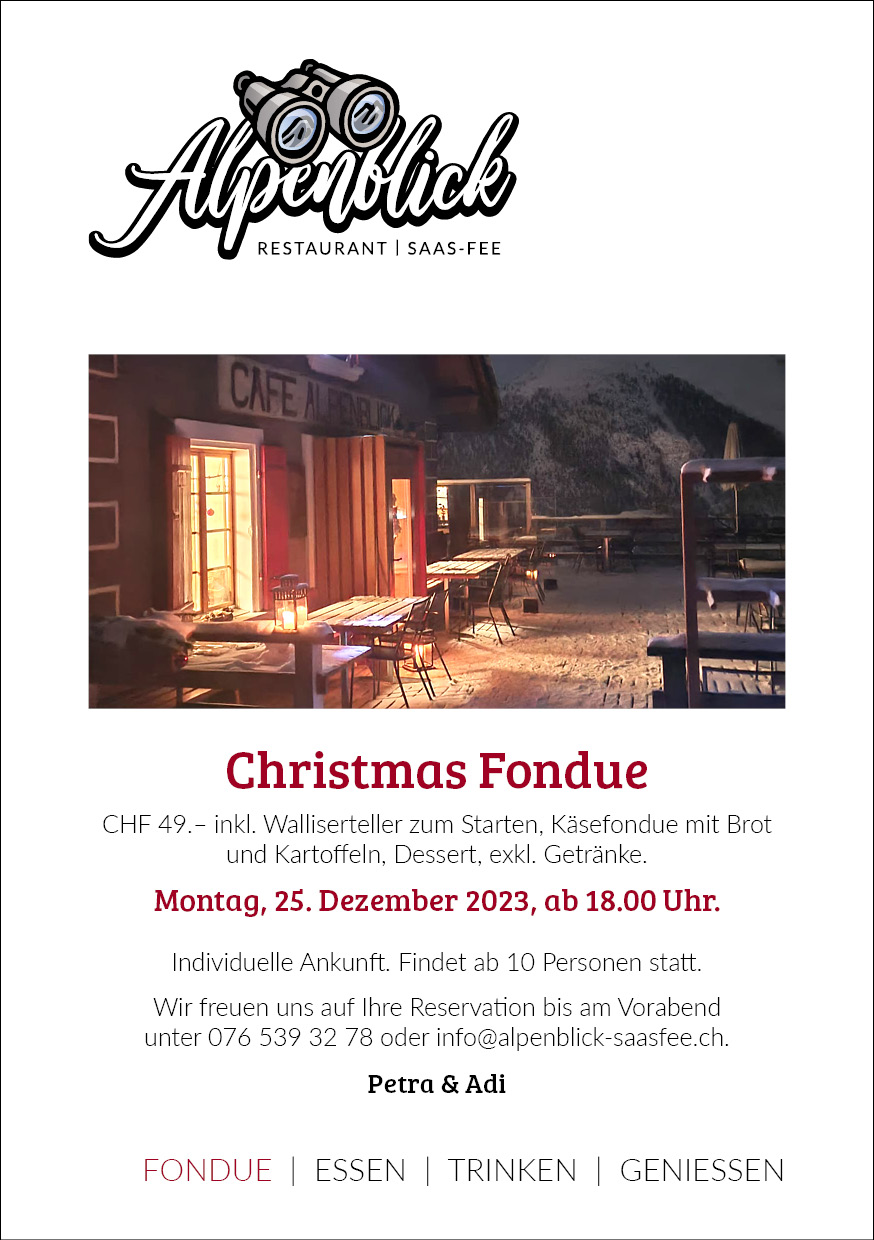
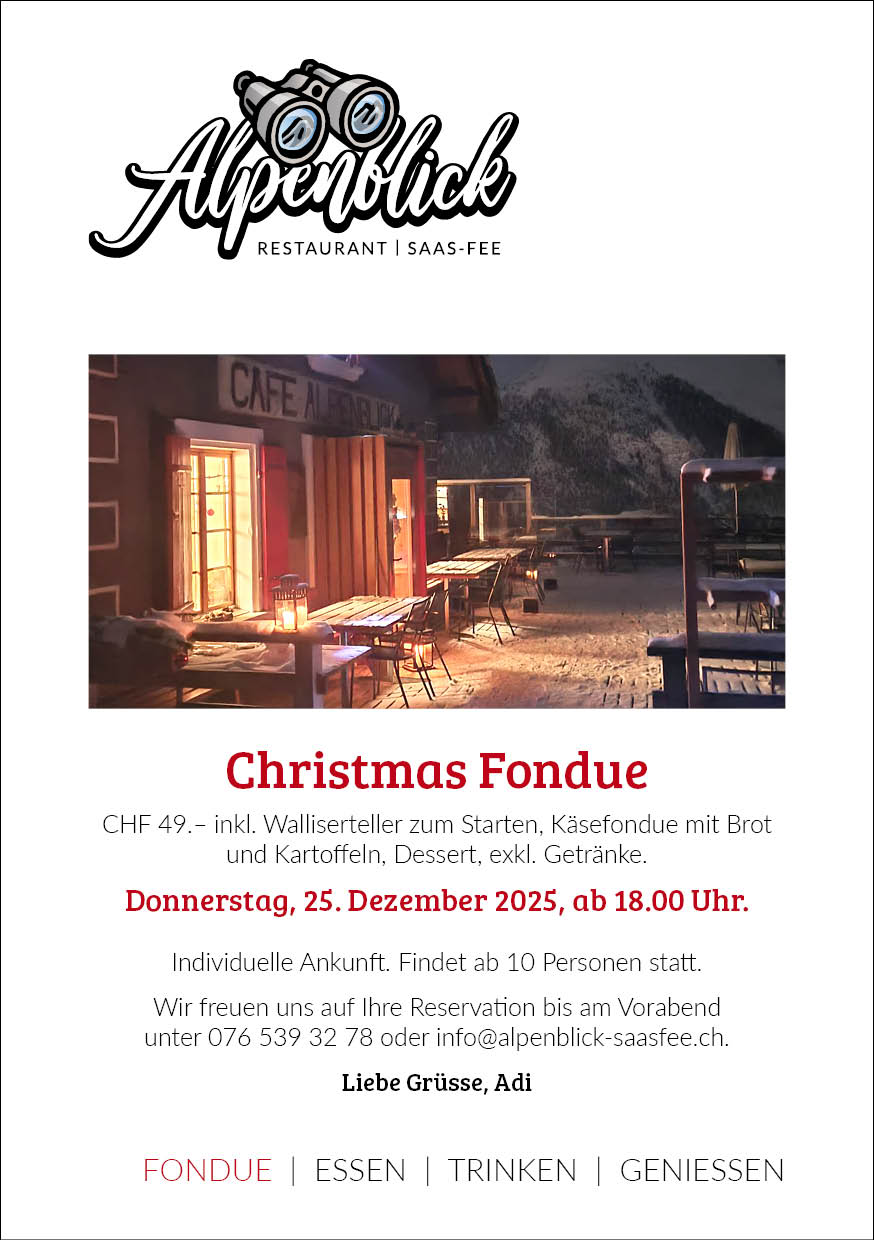
deploy: RetoZ/alpenblick-hugo@d6c4af39b10ca9b0b5985e0b27faafa3f96085b6

diff --git a/index.html b/index.html
@@ -1,4 +1,4 @@
 <!doctype html><html><head><meta name=generator content="Hugo 0.152.2"><meta charset=utf-8><meta http-equiv=X-UA-Compatible content="IE=edge"><title>Restaurant Alpenblick</title><meta name=HandheldFriendly content="True"><meta name=viewport content="width=device-width,initial-scale=1"><link rel=stylesheet type=text/css href=/assets/css/normalize.css><link rel=stylesheet type=text/css href=/assets/css/icons.css><link rel=stylesheet type=text/css href=/assets/css/screen.css><link href="https://fonts.loli.net/css?family=Bree+Serif|Lato:100,100i,300,300i,400,400i,700,700i|Source+Code+Pro:300,400,500,700" rel=stylesheet><link rel=stylesheet href=/css/style.3af1e36d49b4e7aa6063a6a0d5d98c82af2ff0091cfccd1c402d019e5bbdfb0a.css integrity="sha256-OvHjbUm056pgY6ag1dmMgq8v8Akc/M0cQC0Bnlu9+wo=" media=screen><script src=https://cdn.jsdelivr.net/npm/jquery@1.12.4/dist/jquery.min.js></script><script type=text/javascript src=/assets/bigfoot/dist/bigfoot.js></script><link rel=stylesheet type=text/css href=/assets/bigfoot/dist/bigfoot-number.css><script type=text/javascript>$.bigfoot()</script></head><body class=homepage><header class=main-header><div class=main-header-content><h1 class=blog-title><a href=/>Restaurant Alpenblick<br>Saas-Fee</a></h1><h2 class=blog-description>Essen   |   Trinken   |   Geniessen</h2></div><div class=nav><a class="nav- nav-current" role=presentation href=/>Willkommen</a>
 <a class=nav- role=presentation href=/about/>Gastgeber</a>
 <a class=nav- role=presentation href=/gallery/>Gallerie</a>
-<a class=nav- role=presentation href=/contact/>Kontakt</a></div></header><main class=content role=main><img src=images/Restaurant_Alpenblick_Saas_Fee_BLAU.png alt="Restaurant Alpenblick Saas-Fee Logo" class=logo><br><hr><p><strong>Start Wintersaison</strong><br>Am <strong>Freitag, 12. Dezember 2025</strong>, freuen wir uns, mit euch in die Wintersaison starten zu dürfen!</p><hr><br><h1 id=herzlich-willkommen->Herzlich Willkommen &mldr;</h1><p><img src=images/Alpenblick_Ansicht_13.jpg alt=Alpenblick title=Alpenblick></p><p>Geniessen Sie unser renoviertes Bergrestaurant im Sommer- und Winterwandergebiet Hannig auf 2030 Meter Höhe am Rand eines knorrigen Lärchen-Arven-Waldes und auf halbem Weg zwischen Hannig und Saas-Fee.</p><p>Die wunderschöne Sonnenterrasse mit herrlicher Aussicht auf die Berglandschaft und das rustikale Interieur unserer Zuckmayer Stube wird Ihnen gefallen. Sie werden von uns mit Schweizer Küche und feinen hausgemachten Kuchen verwöhnt.</p><p><em>Liebe Grüsse, Adi</em></p><h2 id=essen--trinken>Essen & Trinken</h2><ul><li>Unsere Menükarte in <a href=images/Alpenblick_Menukarte_QR_Code_DE.pdf target=_blank>Deutsch</a></li><li>Notre menu en <a href=images/Alpenblick_Menukarte_QR_Code_FR.pdf target=_blank>français</a></li><li>Our menu in <a href=images/Alpenblick_Menukarte_QR_Code_EN.pdf target=_blank>english</a></li></ul><h2 id=einen-tisch-reservieren>Einen Tisch reservieren</h2><ul><li>Statt telefonisch oder via E-Mail können Sie <a href="https://reserve.foratable.com?restaurantHash=3be5e5e9c7df6d02cb707c204c71a1ba" target=_blank>hier direkt einen Tisch reservieren</a>.</li><li>Au lieu de téléphoner ou d&rsquo;envoyer un e-mail, vous pouvez <a href="https://reserve.foratable.com?restaurantHash=3be5e5e9c7df6d02cb707c204c71a1ba" target=_blank>réserver directement une table ici</a>.</li><li>Instead of calling or emailing, you can <a href="https://reserve.foratable.com?restaurantHash=3be5e5e9c7df6d02cb707c204c71a1ba" target=_blank>book a table directly here</a>.</li></ul><h2 id=übernachten-unter-sternen>Übernachten unter Sternen</h2><p>Wir freuen uns sehr, euch über unsere Zusammenarbeit mit <strong><a href=https://www.adventurly.ch target=_blank>adventurly.ch</a></strong> informieren zu können! Seit <strong>Sommer 2023</strong> könnt ihr unsere romantische <a href=images/Alpenblick_Bubble-Suite_Tag.jpg target=_blank>Alpenblick Bubble-Suite</a> buchen und eine unvergessliche Nacht unter dem <a href=images/Alpenblick_Bubble-Suite_Nacht.jpg target=_blank>Sternenhimmel</a> geniessen. Kombiniert mit den Alpenblick Gaumenfreuden ein garantiert unvergessliches Erlebnis! <a href=https://www.alpenblick-saasfee.ch/gallery/ target=_blank>Hier ein paar Impressionen</a> und <a href=https://adventurly.ch/unterkuenfte/bubble-suite-saas-fee/ target=_blank>hier direkt buchbar!</a></p><h2 id=übernachten-im-massenlager>Übernachten im Massenlager</h2><p>Unser kleines, aber feines <a href=images/Alpenblick_Flyer_Uebernachten_2022.jpg target=_blank>Massenlager</a> für Gruppen (von mind. 6 und max. 10 Personen) ist schlafbereit!</p><h2 id=aktuelle-anlässe>Aktuelle Anlässe</h2><ul><li>Jeden Freitag: <a href=images/Alpenblick_Flyer_Freitag_Abend_Menu_2020.jpg target=_blank>Freitag Abend Überraschungsmenu</a></li><li>AUSGEBUCHT – Samstag, 3. Januar 2026: <a href=images/Alpenblick_Flyer_Vollmond_Raclette_Plausch.jpg target=_blank>Vollmond Raclette</a></li><li>Sonntag, 1. Februar 2026: <a href=images/Alpenblick_Flyer_Vollmond_Raclette_Plausch.jpg target=_blank>Vollmond Raclette</a></li><li>Montag, 2. März 2026: <a href=images/Alpenblick_Flyer_Vollmond_Raclette_Plausch.jpg target=_blank>Vollmond Raclette</a></li><li>Donnerstag, 2. April 2026: <a href=images/Alpenblick_Flyer_Vollmond_Raclette_Plausch.jpg target=_blank>Vollmond Raclette</a></li></ul><h2 id=erwähnungen-in-blogbeiträgen>Erwähnungen in Blogbeiträgen</h2><ul><li>Skigebiet Inspirationen auf <strong><a href=https://www.ifolor.ch/inspirationen/skifahren-in-der-schweiz-die-besten-orte target=_blank>ifolor.ch</a></strong></li></ul><h2 id=auf-geschenksuche-warum-nicht->Auf Geschenksuche? Warum nicht &mldr;</h2><ul><li>&mldr; einen Alpenblick Gutschein via <a href="mailto:info@alpenblick-saasfee.ch?Subject=Gutscheinbestellung">E-Mail</a> bestellen?</li><li>&mldr; ein Satz <a href=images/Alpenblick_Stirnband.jpg target=_blank>heisse Ohren</a> verteilen?</li><li>&mldr; eine <a href=images/Alpenblick_Flyer_Uebernachten_2022.jpg target=_blank>Mütze Schlaf</a> verschenken?</li><li>&mldr; einen <a href=images/Alpenblick_Postkarten.jpg target=_blank>Postkartengruss</a> versenden?</li><li>&mldr; ein bisschen <a href=images/Alpenblick_Flyer_Verfeinern_2021.jpg target=_blank>Würze</a> reinbringen?</li></ul><h2 id=instagram-foto-wettbewerb>Instagram Foto Wettbewerb</h2><p><a href=https://www.instagram.com/alpenblick_saasfee/ target=_blank alt=Instagram title=Instagram><img src=images/Alpenblick_Insta_Foto_Wettbewerb.jpg alt=Instagram></a></p><ul><li>Siegerfoto Juli 2023: <a href=images/Alpenblick_alpenblickwinkel_23_07_saastalmagnifique.png target=_blank>saastalmagnifique</a></li><li>Siegerfoto Januar 2023: <a href=images/Alpenblick_alpenblickwinkel_23_01_yoga_kristina.png target=_blank>Yoga Kristina</a></li><li>Siegerfoto Dezember 2022: <a href=images/Alpenblick_alpenblickwinkel_22_12_fimian_pia.png target=_blank>Pia Fimian</a></li><li>Siegerfoto September 2022: <a href=images/Alpenblick_alpenblickwinkel_22_09_wuerschtom.png target=_blank>Tom Würsch</a></li><li>Siegerfoto März 2022: <a href=images/Alpenblick_alpenblickwinkel_22_03_Andrea_Teufer.png target=_blank>Andrea Teufer</a></li><li>Siegerfoto Juli 2021: <a href=images/Alpenblick_alpenblickwinkel_21_07_udocasel.png target=_blank>udocasel</a></li><li>Siegerfoto Juni 2021: <a href=images/Alpenblick_alpenblickwinkel_21_06_frederika_w.png target=_blank>frederika.w</a></li><li>Siegerfoto September 2020: <a href=images/Alpenblick_alpenblickwinkel_20_09_hosch_daniel.png target=_blank>hosch.daniel</a></li><li>Siegerfoto August 2020: <a href=images/Alpenblick_alpenblickwinkel_20_08_aerdna_nietsttew.png target=_blank>aerdna.nietsttew</a></li><li>Siegerfoto Juli 2020: <a href=images/Alpenblick_alpenblickwinkel_20_07_misakj_kagesakj.png target=_blank>misakj_kagesakj</a></li></ul><h2 id=hat-es-direuch-gefallen-bei-uns>Hat es dir/euch gefallen bei uns?</h2><p>Danke für deine Bewertung:<br><a href=https://www.suissegourmet.ch/saas-fee/restaurant-alpenblick/ target=_blank alt="Die besten Restaurants in Schweiz" title="Die besten Restaurants in Schweiz"><img src="https://www.suissegourmet.ch/gourmetbutton/stempel.php?rid=72573" alt="Die besten Restaurants in Schweiz"></a></p><br><p><a href=https://www.saas-fee.ch/ target=_blank alt=Saas-Fee title=Saas-Fee><img src=images/Saas-Fee_Logo_Rot_RGB.svg alt=Saas-Fee class=logo></a></p></main><footer class=site-footer><section class=facebook><a class=icon-facebook href=https://www.facebook.com/saasfee.ch/></a></section><section class=copyright>&copy; 2025 Alpenblick Gastro GmbH</section><section class=poweredby>Published with <a href=https://gohugo.io>Hugo</a>.</section></footer></body></html>
+<a class=nav- role=presentation href=/contact/>Kontakt</a></div></header><main class=content role=main><img src=images/Restaurant_Alpenblick_Saas_Fee_BLAU.png alt="Restaurant Alpenblick Saas-Fee Logo" class=logo><br><hr><p><strong>Start Wintersaison</strong><br>Am <strong>Freitag, 12. Dezember 2025</strong>, freuen wir uns, mit euch in die Wintersaison starten zu dürfen!</p><hr><br><h1 id=herzlich-willkommen->Herzlich Willkommen &mldr;</h1><p><img src=images/Alpenblick_Ansicht_13.jpg alt=Alpenblick title=Alpenblick></p><p>Geniessen Sie unser renoviertes Bergrestaurant im Sommer- und Winterwandergebiet Hannig auf 2030 Meter Höhe am Rand eines knorrigen Lärchen-Arven-Waldes und auf halbem Weg zwischen Hannig und Saas-Fee.</p><p>Die wunderschöne Sonnenterrasse mit herrlicher Aussicht auf die Berglandschaft und das rustikale Interieur unserer Zuckmayer Stube wird Ihnen gefallen. Sie werden von uns mit Schweizer Küche und feinen hausgemachten Kuchen verwöhnt.</p><p><em>Liebe Grüsse, Adi</em></p><h2 id=essen--trinken>Essen & Trinken</h2><ul><li>Unsere Menükarte in <a href=images/Alpenblick_Menukarte_QR_Code_DE.pdf target=_blank>Deutsch</a></li><li>Notre menu en <a href=images/Alpenblick_Menukarte_QR_Code_FR.pdf target=_blank>français</a></li><li>Our menu in <a href=images/Alpenblick_Menukarte_QR_Code_EN.pdf target=_blank>english</a></li></ul><h2 id=einen-tisch-reservieren>Einen Tisch reservieren</h2><ul><li>Statt telefonisch oder via E-Mail können Sie <a href="https://reserve.foratable.com?restaurantHash=3be5e5e9c7df6d02cb707c204c71a1ba" target=_blank>hier direkt einen Tisch reservieren</a>.</li><li>Au lieu de téléphoner ou d&rsquo;envoyer un e-mail, vous pouvez <a href="https://reserve.foratable.com?restaurantHash=3be5e5e9c7df6d02cb707c204c71a1ba" target=_blank>réserver directement une table ici</a>.</li><li>Instead of calling or emailing, you can <a href="https://reserve.foratable.com?restaurantHash=3be5e5e9c7df6d02cb707c204c71a1ba" target=_blank>book a table directly here</a>.</li></ul><h2 id=übernachten-unter-sternen>Übernachten unter Sternen</h2><p>Wir freuen uns sehr, euch über unsere Zusammenarbeit mit <strong><a href=https://www.adventurly.ch target=_blank>adventurly.ch</a></strong> informieren zu können! Seit <strong>Sommer 2023</strong> könnt ihr unsere romantische <a href=images/Alpenblick_Bubble-Suite_Tag.jpg target=_blank>Alpenblick Bubble-Suite</a> buchen und eine unvergessliche Nacht unter dem <a href=images/Alpenblick_Bubble-Suite_Nacht.jpg target=_blank>Sternenhimmel</a> geniessen. Kombiniert mit den Alpenblick Gaumenfreuden ein garantiert unvergessliches Erlebnis! <a href=https://www.alpenblick-saasfee.ch/gallery/ target=_blank>Hier ein paar Impressionen</a> und <a href=https://adventurly.ch/unterkuenfte/bubble-suite-saas-fee/ target=_blank>hier direkt buchbar!</a></p><h2 id=übernachten-im-massenlager>Übernachten im Massenlager</h2><p>Unser kleines, aber feines <a href=images/Alpenblick_Flyer_Uebernachten_2022.jpg target=_blank>Massenlager</a> für Gruppen (von mind. 6 und max. 10 Personen) ist schlafbereit!</p><h2 id=aktuelle-anlässe>Aktuelle Anlässe</h2><ul><li>Jeden Freitag: <a href=images/Alpenblick_Flyer_Freitag_Abend_Menu_2020.jpg target=_blank>Freitag Abend Überraschungsmenu</a></li><li>AUSGEBUCHT – Samstag, 3. Januar 2026: <a href=images/Alpenblick_Flyer_Vollmond_Raclette_Plausch.jpg target=_blank>Vollmond Raclette</a></li><li>Sonntag, 1. Februar 2026: <a href=images/Alpenblick_Flyer_Vollmond_Raclette_Plausch.jpg target=_blank>Vollmond Raclette</a></li><li>Montag, 2. März 2026: <a href=images/Alpenblick_Flyer_Vollmond_Raclette_Plausch.jpg target=_blank>Vollmond Raclette</a></li><li>Donnerstag, 2. April 2026: <a href=images/Alpenblick_Flyer_Vollmond_Raclette_Plausch.jpg target=_blank>Vollmond Raclette</a></li><li>Mittwoch, 24. Dezember 2025: Weihnachtsmenu</li></ul><ul><li>Donnerstag, 25. Dezember 2025: <a href=images/Alpenblick_Flyer_Christmas_Fondue.jpg target=_blank>Christmas Fondue</a></li></ul><h2 id=erwähnungen-in-blogbeiträgen>Erwähnungen in Blogbeiträgen</h2><ul><li>Skigebiet Inspirationen auf <strong><a href=https://www.ifolor.ch/inspirationen/skifahren-in-der-schweiz-die-besten-orte target=_blank>ifolor.ch</a></strong></li></ul><h2 id=auf-geschenksuche-warum-nicht->Auf Geschenksuche? Warum nicht &mldr;</h2><ul><li>&mldr; einen Alpenblick Gutschein via <a href="mailto:info@alpenblick-saasfee.ch?Subject=Gutscheinbestellung">E-Mail</a> bestellen?</li><li>&mldr; ein Satz <a href=images/Alpenblick_Stirnband.jpg target=_blank>heisse Ohren</a> verteilen?</li><li>&mldr; eine <a href=images/Alpenblick_Flyer_Uebernachten_2022.jpg target=_blank>Mütze Schlaf</a> verschenken?</li><li>&mldr; einen <a href=images/Alpenblick_Postkarten.jpg target=_blank>Postkartengruss</a> versenden?</li><li>&mldr; ein bisschen <a href=images/Alpenblick_Flyer_Verfeinern_2021.jpg target=_blank>Würze</a> reinbringen?</li></ul><h2 id=instagram-foto-wettbewerb>Instagram Foto Wettbewerb</h2><p><a href=https://www.instagram.com/alpenblick_saasfee/ target=_blank alt=Instagram title=Instagram><img src=images/Alpenblick_Insta_Foto_Wettbewerb.jpg alt=Instagram></a></p><ul><li>Siegerfoto Juli 2023: <a href=images/Alpenblick_alpenblickwinkel_23_07_saastalmagnifique.png target=_blank>saastalmagnifique</a></li><li>Siegerfoto Januar 2023: <a href=images/Alpenblick_alpenblickwinkel_23_01_yoga_kristina.png target=_blank>Yoga Kristina</a></li><li>Siegerfoto Dezember 2022: <a href=images/Alpenblick_alpenblickwinkel_22_12_fimian_pia.png target=_blank>Pia Fimian</a></li><li>Siegerfoto September 2022: <a href=images/Alpenblick_alpenblickwinkel_22_09_wuerschtom.png target=_blank>Tom Würsch</a></li><li>Siegerfoto März 2022: <a href=images/Alpenblick_alpenblickwinkel_22_03_Andrea_Teufer.png target=_blank>Andrea Teufer</a></li><li>Siegerfoto Juli 2021: <a href=images/Alpenblick_alpenblickwinkel_21_07_udocasel.png target=_blank>udocasel</a></li><li>Siegerfoto Juni 2021: <a href=images/Alpenblick_alpenblickwinkel_21_06_frederika_w.png target=_blank>frederika.w</a></li><li>Siegerfoto September 2020: <a href=images/Alpenblick_alpenblickwinkel_20_09_hosch_daniel.png target=_blank>hosch.daniel</a></li><li>Siegerfoto August 2020: <a href=images/Alpenblick_alpenblickwinkel_20_08_aerdna_nietsttew.png target=_blank>aerdna.nietsttew</a></li><li>Siegerfoto Juli 2020: <a href=images/Alpenblick_alpenblickwinkel_20_07_misakj_kagesakj.png target=_blank>misakj_kagesakj</a></li></ul><h2 id=hat-es-direuch-gefallen-bei-uns>Hat es dir/euch gefallen bei uns?</h2><p>Danke für deine Bewertung:<br><a href=https://www.suissegourmet.ch/saas-fee/restaurant-alpenblick/ target=_blank alt="Die besten Restaurants in Schweiz" title="Die besten Restaurants in Schweiz"><img src="https://www.suissegourmet.ch/gourmetbutton/stempel.php?rid=72573" alt="Die besten Restaurants in Schweiz"></a></p><br><p><a href=https://www.saas-fee.ch/ target=_blank alt=Saas-Fee title=Saas-Fee><img src=images/Saas-Fee_Logo_Rot_RGB.svg alt=Saas-Fee class=logo></a></p></main><footer class=site-footer><section class=facebook><a class=icon-facebook href=https://www.facebook.com/saasfee.ch/></a></section><section class=copyright>&copy; 2025 Alpenblick Gastro GmbH</section><section class=poweredby>Published with <a href=https://gohugo.io>Hugo</a>.</section></footer></body></html>
